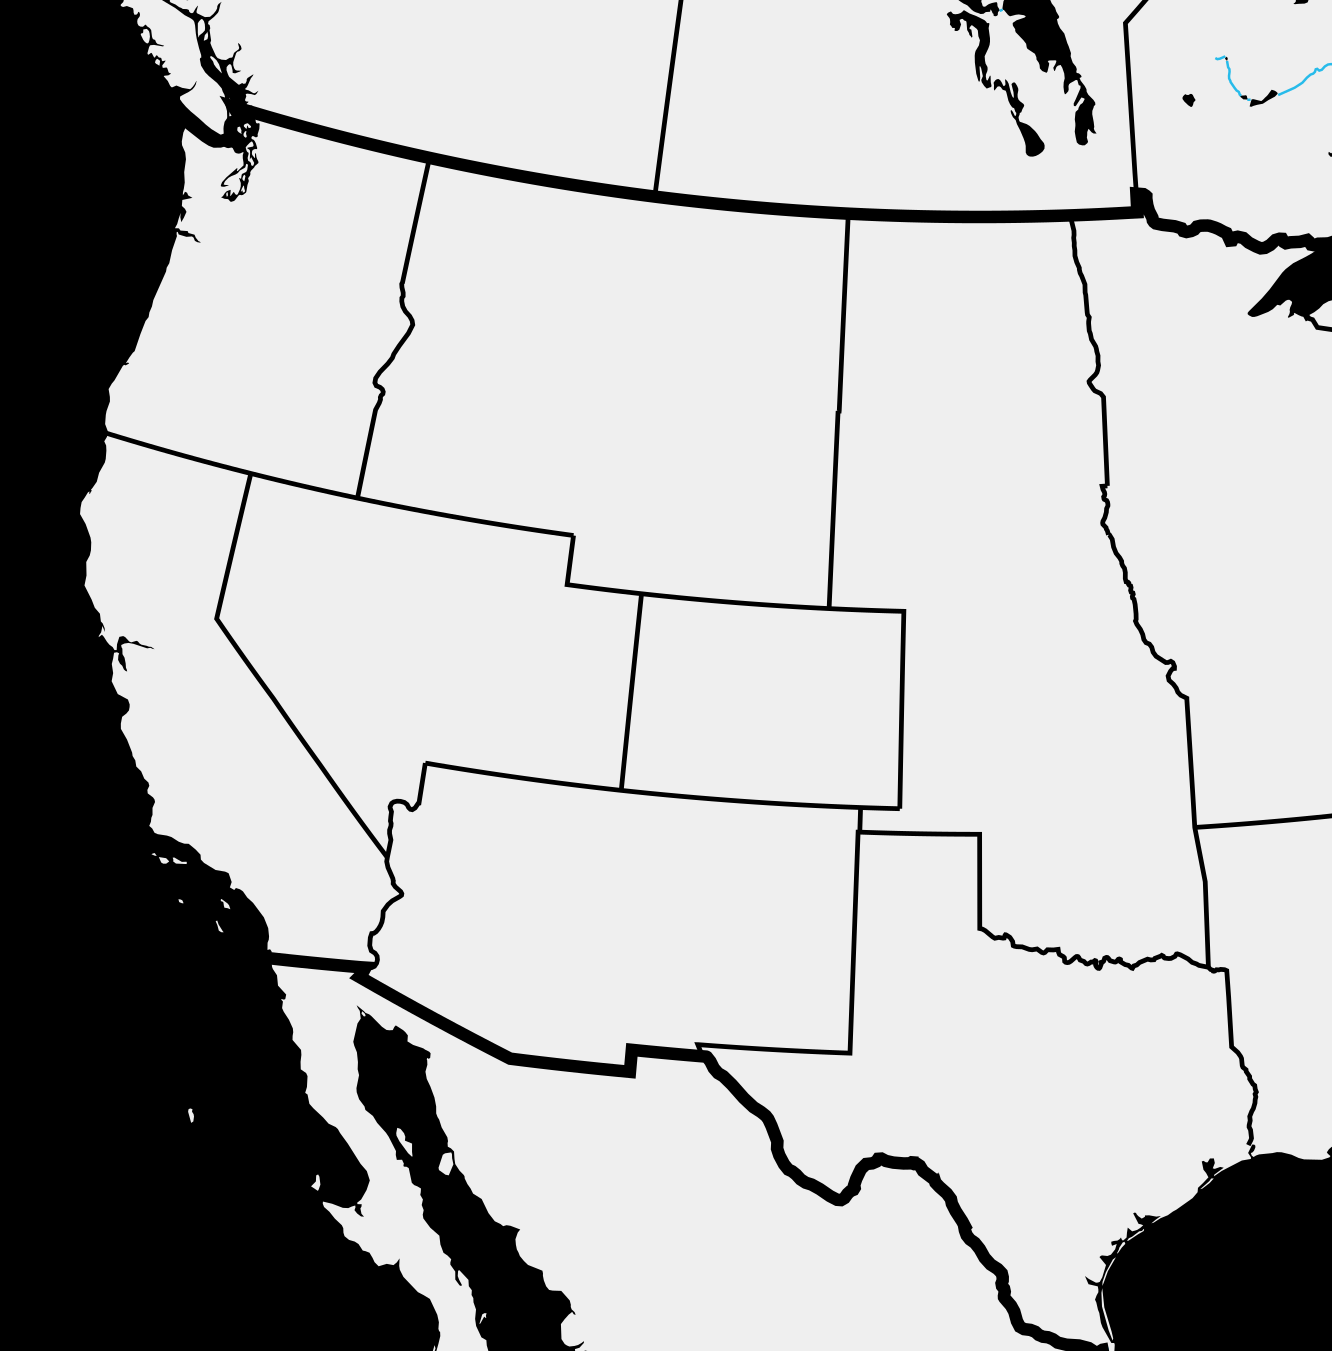
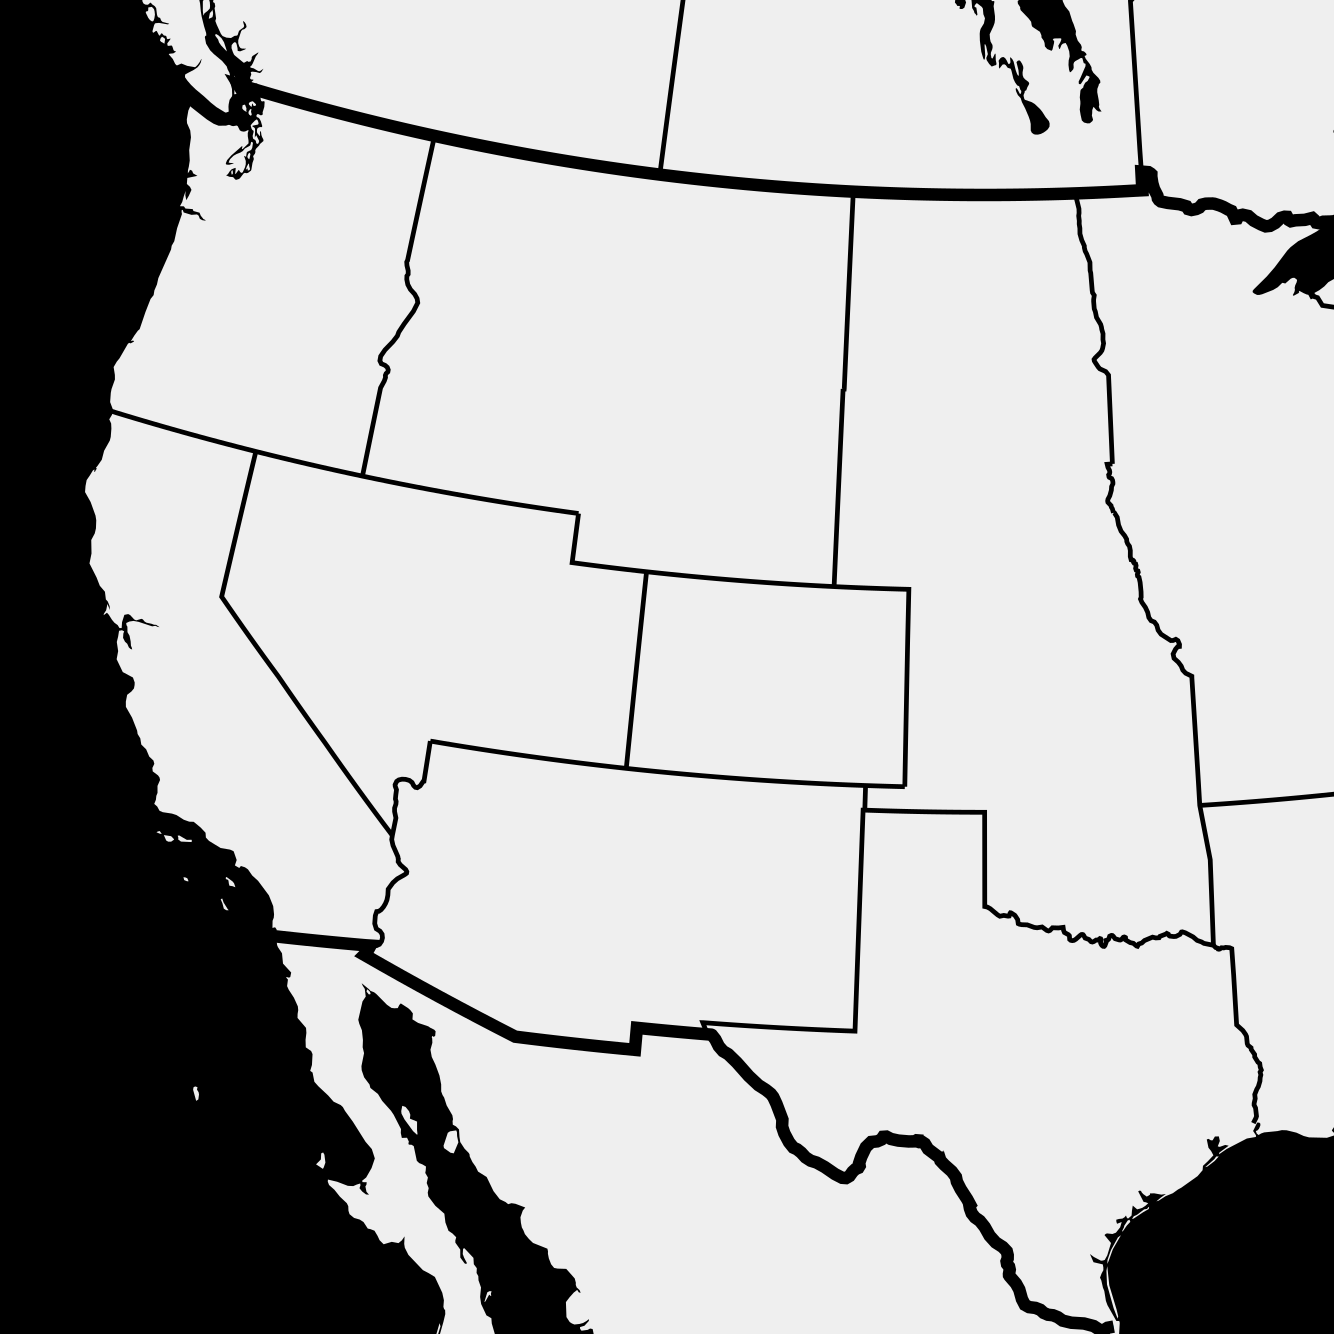
added canvas scaling

diff --git a/src/app/page.js b/src/app/page.js
@@ -9,31 +9,31 @@ import Head from 'next/head'
 export default function Main(props) {
   const canvasRef = React.useRef(null);
 
+  const defaultSize = 720;
+
   function drawForeground(ctx) {
     const width = ctx.canvas.width;
     const height = ctx.canvas.height;
 
+    const camp1 = { x: 185, y: 45 };
+    const camp2 = { x: 150, y: 145 };
+    const campSize = 20;
+
     ctx.fillStyle = '#0000CC';
+    ctx.strokeStyle = '#e8bd20';
     ctx.beginPath();
-    ctx.fillRect(200,40, 20, 20)
-    //ctx.arc(100, 100, 20, 0, 2*Math.PI);
-    //ctx.fill();
+    ctx.moveTo(camp1.x,camp1.y);
+    ctx.lineTo(camp2.x,camp2.y);
+    ctx.lineWidth = 5;
+    ctx.stroke(); // Render the path
+    ctx.fillRect(camp1.x-campSize/2, camp1.y-campSize/2, campSize, campSize);
+    ctx.fillRect(camp2.x-campSize/2, camp2.y-campSize/2, campSize, campSize);
+    
+
   }
   
   function draw(ctx) {
-    const width = ctx.canvas.width;
-    const height = ctx.canvas.height;
-    console.log(width + ", " + height);
-    ctx.clearRect(0, 0, width, height);
-    // ctx.drawImage(background, 0, 0, background.width, background.height,
-    // 0, 0, ctx.width, ctx.height); // destination rectangle;
-    var background = new Image();
-    background.src = '/map.png'
-    background.onload = function() {
-        //ctx.drawImage(background,0,0);
-        drawImageProp(ctx, background, 0, 0, width, height);
-        drawForeground(ctx);
-    }
+    drawForeground(ctx);
   }
 
   useEffect(() => {
@@ -41,16 +41,21 @@ export default function Main(props) {
     const ctx = canvas.getContext('2d');
     window.addEventListener('resize', resizeCanvas, false);
     function resizeCanvas() {
+      const pixelRatio = 1;//window.devicePixelRatio || 1;
+      var size = defaultSize;
       // we want a square canvas
       // which dimension is smaller?
       if (window.innerWidth < window.innerHeight) {
-        canvas.width = window.innerWidth;
-        canvas.height = window.innerWidth;
+        size = window.innerWidth;
+        canvas.width = size;
+        canvas.height = size;
       }
       else {
-        canvas.width = window.innerHeight;
-        canvas.height = window.innerHeight;
+        size = window.innerHeight;
+        canvas.width = size;
+        canvas.height = size;
       }
+      ctx.scale(size/defaultSize, size/defaultSize);
       draw(ctx)
     }
     resizeCanvas();
@@ -59,13 +64,11 @@ export default function Main(props) {
 
 
   return (
-    <div>
-      <div className={styles.Canvas2D}>
-        <canvas data-testid="canvas"
-        ref={canvasRef}
-        width={600}
-        height={600}
-        />
+    <div className="centered-container">
+      <div id="canvas-container" className={styles.Canvas2D}>
+        {/* Add a background image as a CSS background */}
+        <div className="CanvasBackground" />
+        <canvas data-testid="canvas" ref={canvasRef} width={defaultSize} height={defaultSize} />
       </div>
     </div>
   );

diff --git a/src/app/globals.css b/src/app/globals.css
@@ -28,8 +28,27 @@ body {
     rgb(var(--background-start-rgb));
 }
 
+/*
 #mainCanvas
 {
     display: block;
     margin: 0 auto;
+}
+*/
+
+.CanvasBackground {
+  background: url("/map.png") center center/contain no-repeat;
+  position: absolute;
+  top: 0;
+  left: 0;
+  width: 100%;
+  height: 100%;
+  z-index: -1; /* Place the background behind the canvas */
+}
+
+.centered-container {
+  display: flex;
+  justify-content: center;
+  align-items: center;
+  min-height: 100vh;
 }
